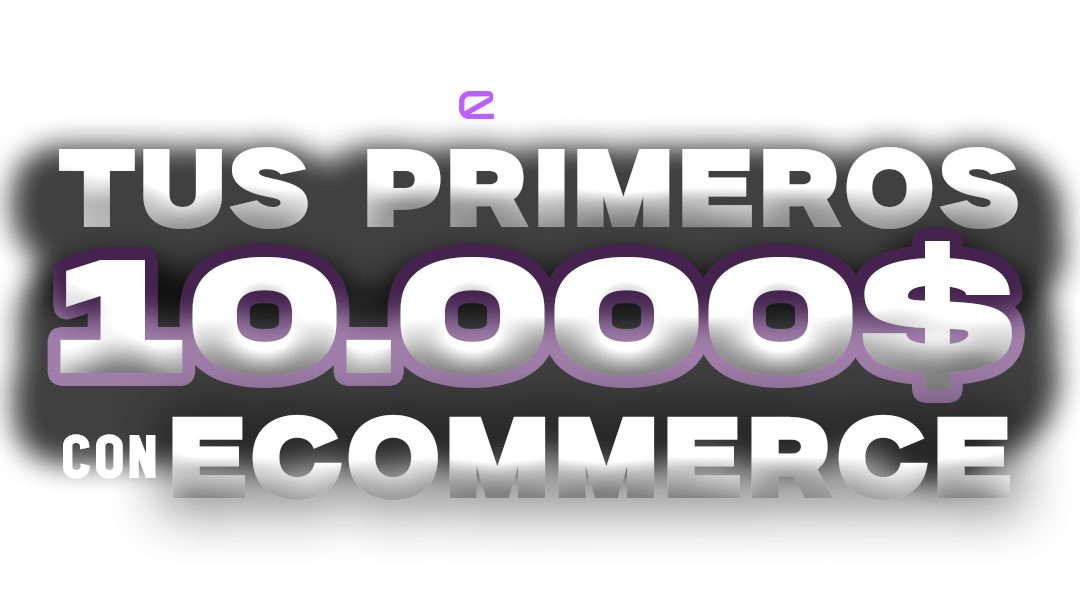
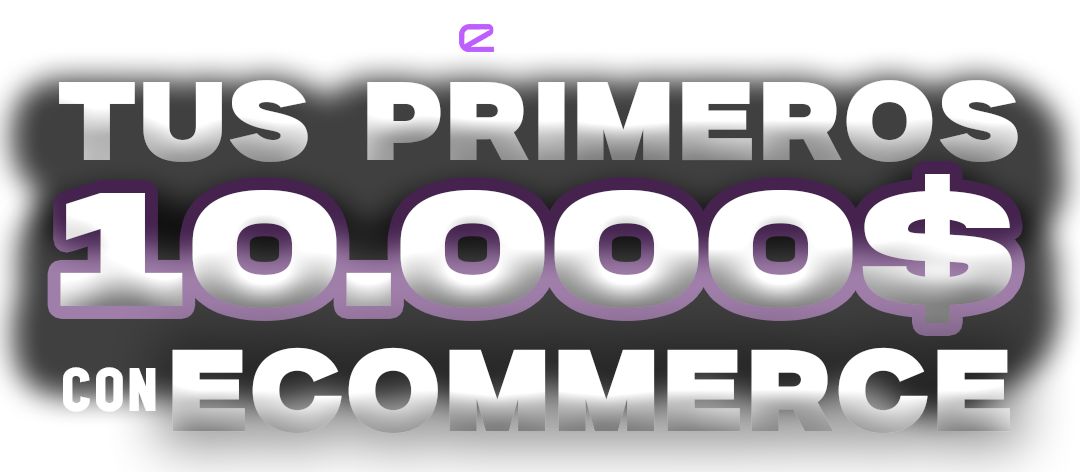
refactor: replace lead capture form with direct WhatsApp CTA and add expert team section

diff --git a/src/pages/Formulario10k.jsx b/src/pages/Formulario10k.jsx
@@ -1,76 +1,11 @@
-import React, { useState } from 'react';
+import React from 'react';
 import { Link } from 'react-router-dom';
 import projectLogo from '../assets/Elementos graficos/1.png';
 import tituloWebinar from '../assets/Elementos graficos/titulo webinar.png';
+import expertosImg from '../assets/Elementos graficos/expertos.png';
 import './Formulario10k.css';
 
-const WHATSAPP_LINK = 'https://chat.whatsapp.com/'; // Reemplaza con tu enlace real
-
-function CheckIcon() {
-  return (
-    <svg className="f10k-success-icon" viewBox="0 0 52 52" fill="none" xmlns="http://www.w3.org/2000/svg">
-      <circle cx="26" cy="26" r="25" stroke="#b14cf7" strokeWidth="2" />
-      <path d="M14 27l8 8 16-16" stroke="#b14cf7" strokeWidth="2.5" strokeLinecap="round" strokeLinejoin="round" />
-    </svg>
-  );
-}
-
 export default function Formulario10k() {
-  const [form, setForm] = useState({
-    telefono: '+58',
-    correo: '',
-  });
-
-  const [errors, setErrors] = useState({});
-  const [submitted, setSubmitted] = useState(false);
-  const [loading, setLoading] = useState(false);
-
-  function validate() {
-    const newErrors = {};
-    if (!form.telefono.trim() || form.telefono.trim() === '+58') {
-      newErrors.telefono = 'El numero es requerido';
-    } else if (!/^\+?[\d\s\-()]{7,20}$/.test(form.telefono.trim())) {
-      newErrors.telefono = 'Ingresa un numero valido';
-    }
-    if (!form.correo.trim()) {
-      newErrors.correo = 'El correo es requerido';
-    } else if (!/^[^\s@]+@[^\s@]+\.[^\s@]+$/.test(form.correo.trim())) {
-      newErrors.correo = 'Ingresa un correo valido';
-    }
-    return newErrors;
-  }
-
-  function handleChange(e) {
-    const { name, value } = e.target;
-    setForm(prev => ({ ...prev, [name]: value }));
-    if (errors[name]) {
-      setErrors(prev => ({ ...prev, [name]: undefined }));
-    }
-  }
-
-  async function handleSubmit(e) {
-    e.preventDefault();
-    const validationErrors = validate();
-    if (Object.keys(validationErrors).length > 0) {
-      setErrors(validationErrors);
-      return;
-    }
-    setLoading(true);
-
-    // Simulated submission — replace with Google Sheets / Airtable API call
-    await new Promise(res => setTimeout(res, 1500));
-
-    setLoading(false);
-    setSubmitted(true);
-
-    if (typeof window.fbq === 'function') {
-      window.fbq('track', 'Lead', {
-        content_name: 'Formulario10k',
-        content_category: 'WhatsApp Launch',
-      });
-    }
-  }
-
   return (
     <div className="f10k-page">
       <header className="f10k-header">
@@ -84,81 +19,31 @@ export default function Formulario10k() {
         <div className="f10k-glow f10k-glow-2" aria-hidden="true" />
 
         <section className="f10k-hero">
-
           <img src={tituloWebinar} alt="Título Webinar" className="f10k-title-img" />
           <p className="f10k-subtitle">
             Cómo construir desde cero un negocio de ecommerce que genere tus primeros <strong>$10.000</strong> antes de que termine el 2026, vendiendo desde Venezuela.
           </p>
-
+          <a
+            href="https://wa.me/+584220282663?text=Quiero%20participar%20en%20la%20clase%20de%20ECOM"
+            target="_blank"
+            rel="noopener noreferrer"
+            id="f10k-cta-btn"
+            className="f10k-cta-btn"
+          >
+            Quiero unirme a la clase gratis
+          </a>
         </section>
 
         <section className="f10k-card-wrapper">
-          <div className="f10k-card">
-            {!submitted ? (
-              <>
-                <h2 className="f10k-card-title">Reserva tu lugar ahora</h2>
-                <p className="f10k-card-desc">Completa el formulario y nos ponemos en contacto contigo.</p>
-
-                <form className="f10k-form" onSubmit={handleSubmit} noValidate>
-
-                  {/* Telefono */}
-                  <div className={`f10k-field${errors.telefono ? ' f10k-field--error' : ''}`}>
-                    <label className="f10k-label" htmlFor="f10k-telefono">
-                      Numero de WhatsApp <span className="f10k-required">*</span>
-                    </label>
-                    <div className="f10k-input-wrap">
-                      <span className="f10k-input-icon">
-                        <svg viewBox="0 0 24 24" fill="none" stroke="currentColor" strokeWidth="1.8" strokeLinecap="round" strokeLinejoin="round"><path d="M22 16.92v3a2 2 0 0 1-2.18 2 19.79 19.79 0 0 1-8.63-3.07A19.5 19.5 0 0 1 4.69 12a19.79 19.79 0 0 1-3.07-8.67A2 2 0 0 1 3.6 1.18h3a2 2 0 0 1 2 1.72c.127.96.361 1.903.7 2.81a2 2 0 0 1-.45 2.11L7.91 8.67a16 16 0 0 0 6 6l.82-.82a2 2 0 0 1 2.11-.45c.907.339 1.85.573 2.81.7A2 2 0 0 1 21.5 16.92z"/></svg>
-                      </span>
-                      <input id="f10k-telefono" className="f10k-input" type="tel" name="telefono" value={form.telefono} onChange={handleChange} placeholder="+58 412 000 0000" autoComplete="tel" />
-                    </div>
-                    {errors.telefono && <span className="f10k-error-msg">{errors.telefono}</span>}
-                  </div>
-
-                  {/* Correo */}
-                  <div className={`f10k-field${errors.correo ? ' f10k-field--error' : ''}`}>
-                    <label className="f10k-label" htmlFor="f10k-correo">
-                      Correo electronico <span className="f10k-required">*</span>
-                    </label>
-                    <div className="f10k-input-wrap">
-                      <span className="f10k-input-icon">
-                        <svg viewBox="0 0 24 24" fill="none" stroke="currentColor" strokeWidth="1.8" strokeLinecap="round" strokeLinejoin="round"><rect x="2" y="4" width="20" height="16" rx="2"/><path d="m22 7-8.97 5.7a1.94 1.94 0 0 1-2.06 0L2 7"/></svg>
-                      </span>
-                      <input id="f10k-correo" className="f10k-input" type="email" name="correo" value={form.correo} onChange={handleChange} placeholder="tucorreo@ejemplo.com" autoComplete="email" />
-                    </div>
-                    {errors.correo && <span className="f10k-error-msg">{errors.correo}</span>}
-                  </div>
-
-                  <button id="f10k-submit-btn" type="submit" className="f10k-submit-btn" disabled={loading}>
-                    {loading ? (
-                      <span className="f10k-spinner" />
-                    ) : (
-                      <>
-                        <svg className="f10k-btn-icon" viewBox="0 0 24 24" fill="currentColor" width="20" height="20"><path d="M17.472 14.382c-.297-.149-1.758-.867-2.03-.967-.273-.099-.471-.148-.67.15-.197.297-.767.966-.94 1.164-.173.199-.347.223-.644.075-.297-.15-1.255-.463-2.39-1.475-.883-.788-1.48-1.761-1.653-2.059-.173-.297-.018-.458.13-.606.134-.133.298-.347.446-.52.149-.174.198-.298.298-.497.099-.198.05-.371-.025-.52-.075-.149-.669-1.612-.916-2.207-.242-.579-.487-.5-.669-.51-.173-.008-.371-.01-.57-.01-.198 0-.52.074-.792.372-.272.297-1.04 1.016-1.04 2.479 0 1.462 1.065 2.875 1.213 3.074.149.198 2.096 3.2 5.077 4.487.709.306 1.262.489 1.694.625.712.227 1.36.195 1.871.118.571-.085 1.758-.719 2.006-1.413.248-.694.248-1.289.173-1.413-.074-.124-.272-.198-.57-.347z"/><path d="M12 0C5.373 0 0 5.373 0 12c0 2.124.555 4.12 1.524 5.855L0 24l6.341-1.498A11.933 11.933 0 0 0 12 24c6.627 0 12-5.373 12-12S18.627 0 12 0z"/></svg>
-                        Quiero unirme al grupo
-                      </>
-                    )}
-                  </button>
-
-                  <p className="f10k-disclaimer">
-                    Tus datos estan seguros. Solo los usaremos para anadirte al grupo de WhatsApp.
-                  </p>
-                </form>
-              </>
-            ) : (
-              <div className="f10k-success">
-                <CheckIcon />
-                <h2 className="f10k-success-title">Ya casi estas dentro!</h2>
-                <p className="f10k-success-text">
-                  Recibimos tu informacion. En breve te anadiremos al grupo privado de WhatsApp donde recibiras todo sobre el lanzamiento de <strong>ECOM 2026</strong>.
-                </p>
-                <a href={WHATSAPP_LINK} target="_blank" rel="noopener noreferrer" className="f10k-whatsapp-cta" id="f10k-whatsapp-join-btn">
-                  <svg viewBox="0 0 24 24" fill="currentColor" width="22" height="22"><path d="M17.472 14.382c-.297-.149-1.758-.867-2.03-.967-.273-.099-.471-.148-.67.15-.197.297-.767.966-.94 1.164-.173.199-.347.223-.644.075-.297-.15-1.255-.463-2.39-1.475-.883-.788-1.48-1.761-1.653-2.059-.173-.297-.018-.458.13-.606.134-.133.298-.347.446-.52.149-.174.198-.298.298-.497.099-.198.05-.371-.025-.52-.075-.149-.669-1.612-.916-2.207-.242-.579-.487-.5-.669-.51-.173-.008-.371-.01-.57-.01-.198 0-.52.074-.792.372-.272.297-1.04 1.016-1.04 2.479 0 1.462 1.065 2.875 1.213 3.074.149.198 2.096 3.2 5.077 4.487.709.306 1.262.489 1.694.625.712.227 1.36.195 1.871.118.571-.085 1.758-.719 2.006-1.413.248-.694.248-1.289.173-1.413-.074-.124-.272-.198-.57-.347z"/><path d="M12 0C5.373 0 0 5.373 0 12c0 2.124.555 4.12 1.524 5.855L0 24l6.341-1.498A11.933 11.933 0 0 0 12 24c6.627 0 12-5.373 12-12S18.627 0 12 0z"/></svg>
-                  Unirme al grupo ahora
-                </a>
-                <Link to="/" className="f10k-home-link">Volver al inicio</Link>
-              </div>
-            )}
+          <div className="f10k-expertos-wrapper">
+            <img src={expertosImg} alt="Expertos" className="f10k-expertos-img" />
+            <div className="f10k-expertos-bio">
+              <p className="f10k-expertos-names">Edward, Johan y Bryan</p>
+              <p className="f10k-expertos-names">Creadores de ECOM Venezuela</p>
+              <p className="f10k-expertos-desc">
+                Empresarios y oprganizadores del evento de comercio electrónico más grande del país. No son gurús de afuera: venden online desde Venezuela, cobran en dólares y bolívares, y cierran ventas por WhatsApp igual que tú.
+              </p>
+            </div>
           </div>
         </section>
 
@@ -187,6 +72,18 @@ export default function Formulario10k() {
               </div>
             </div>
           </div>
+        </section>
+
+        <section className="f10k-cta-bottom">
+          <a
+            href="https://wa.me/+584220282663?text=Quiero%20participar%20en%20la%20clase%20de%20ECOM"
+            target="_blank"
+            rel="noopener noreferrer"
+            id="f10k-cta-btn-bottom"
+            className="f10k-cta-btn"
+          >
+            Quiero unirme a la clase gratis
+          </a>
         </section>
       </main>
 

diff --git a/src/pages/Formulario10k.css b/src/pages/Formulario10k.css
@@ -128,6 +128,60 @@
   color: rgba(255,255,255,0.85);
 }
 
+/* ---- CTA Button ---- */
+@keyframes f10k-pulse-glow {
+  0%, 100% {
+    box-shadow:
+      0 0 18px rgba(37, 211, 102, 0.5),
+      0 8px 24px rgba(0, 0, 0, 0.35);
+    transform: translateY(0) scale(1);
+  }
+  50% {
+    box-shadow:
+      0 0 38px rgba(37, 211, 102, 0.85),
+      0 0 70px rgba(37, 211, 102, 0.3),
+      0 12px 30px rgba(0, 0, 0, 0.4);
+    transform: translateY(-3px) scale(1.015);
+  }
+}
+
+.f10k-cta-btn {
+  display: inline-flex;
+  align-items: center;
+  justify-content: center;
+  gap: 8px;
+  padding: 16px 36px;
+  background: linear-gradient(135deg, #1aad54 0%, #25d366 60%, #3dde7a 100%);
+  color: #ffffff;
+  font-family: 'Inter', 'Segoe UI', sans-serif;
+  font-size: 17px;
+  font-weight: 700;
+  border-radius: 50px;
+  text-decoration: none;
+  letter-spacing: 0.01em;
+  box-shadow:
+    0 0 18px rgba(37, 211, 102, 0.5),
+    0 8px 24px rgba(0, 0, 0, 0.35);
+  animation: f10k-pulse-glow 2.4s ease-in-out infinite;
+  margin-top: 8px;
+  cursor: pointer;
+  transition: filter 0.18s ease;
+}
+
+.f10k-cta-btn:hover {
+  filter: brightness(1.12);
+  animation-play-state: paused;
+  transform: translateY(-3px) scale(1.04);
+  box-shadow:
+    0 0 52px rgba(37, 211, 102, 0.9),
+    0 14px 34px rgba(0, 0, 0, 0.45);
+}
+
+.f10k-cta-btn:active {
+  transform: translateY(0) scale(0.97);
+  filter: brightness(0.95);
+}
+
 /* Pills */
 .f10k-pills {
   display: flex;
@@ -153,21 +207,46 @@
 /* ---- Card ---- */
 .f10k-card-wrapper {
   width: 100%;
-  max-width: 560px;
+  max-width: 760px;
   margin-top: 8px;
 }
 
-.f10k-card {
-  background: rgba(255, 255, 255, 0.03);
-  border: 1px solid rgba(177, 76, 247, 0.25);
-  border-radius: 24px;
-  padding: 40px 36px;
-  box-shadow:
-    0 0 80px rgba(154, 42, 241, 0.15),
-    0 30px 80px rgba(0, 0, 0, 0.55),
-    inset 0 1px 0 rgba(255, 255, 255, 0.05);
-  backdrop-filter: blur(10px);
-  -webkit-backdrop-filter: blur(10px);
+.f10k-expertos-wrapper {
+  display: flex;
+  flex-direction: column;
+  align-items: center;
+  gap: 20px;
+}
+
+.f10k-expertos-img {
+  width: 100%;
+  max-width: 720px;
+  height: auto;
+  display: block;
+  border-radius: 20px;
+  object-fit: contain;
+}
+
+.f10k-expertos-bio {
+  width: 100%;
+  max-width: 720px;
+  text-align: center;
+  padding: 0 8px;
+}
+
+.f10k-expertos-names {
+  color: #d8a8ff;
+  font-size: 16px;
+  font-weight: 700;
+  margin: 0 0 10px 0;
+  letter-spacing: 0.01em;
+}
+
+.f10k-expertos-desc {
+  color: rgba(255, 255, 255, 0.72);
+  font-size: 15px;
+  line-height: 1.7;
+  margin: 0;
 }
 
 .f10k-card-title {
@@ -447,6 +526,13 @@
 }
 
 /* ---- Footer ---- */
+/* ---- Bottom CTA ---- */
+.f10k-cta-bottom {
+  display: flex;
+  justify-content: center;
+  padding: 48px 24px 16px;
+}
+
 .f10k-footer {
   text-align: center;
   padding: 24px;
